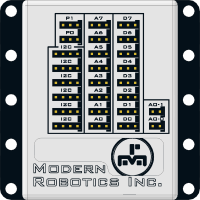
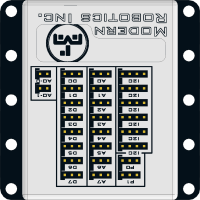
Updated version

diff --git a/src/hardware/HardwareDevice.java b/src/hardware/HardwareDevice.java
@@ -1,11 +1,11 @@
 package hardware;
 
+import main.PointConstants;
+
 import java.awt.*;
+import java.awt.geom.AffineTransform;
 import java.awt.image.BufferedImage;
 import java.util.ArrayList;
-
-import static main.XMLParser.devices;
-import static main.XMLParser.topY;
 
 /**
  * Created by Windows on 2016-10-23.
@@ -15,74 +15,110 @@ public abstract class HardwareDevice {
     int port = 0;
     protected int drawingX = 0;
     String name = "";
+    Point loc;
+    Point cablePoint;
     protected ArrayList<HardwareDevice> children;
+    public String serialNumber = "";
 
     public HardwareDevice(String name, int port){
         this.name = name;
         this.port = port;
+
+        loc = PointConstants.MODULE_LOC[port];
+        cablePoint = new Point(170, 0);
+
         children = new ArrayList<>();
     }
 
-    public int drawModule(Graphics g, int startX){
-        int x = startX;
-        Color c = g.getColor();
-
-        if(children.size() == 1){
-            g.drawRect(startX  + 50, topY + 500, 100, 100);
-            drawStringInBox(g, children.get(0).getName(), x + 50, topY + 500, 100, 100, 5);
-            x += 210;
-        } else {
-            for (HardwareDevice child : children) {
-                g.setColor(c);
-                g.drawRect(x, topY + 500, 100, 100);
-                drawStringInBox(g, child.getName(), x, topY + 500, 100, 100, 5);
-                x += 105;
-            }
-        }
-
-        g.setColor(c);
-        drawingX = (children.size() > 1)? (x - startX) / 2 - 100 + startX: startX;
-
-        if(image != null){
-            g.drawImage(image, drawingX, topY + 250, 200, 200, null);
-        } else {
-            g.drawRect(drawingX, 200, topY + 250, 200);
-
-        }
-
-        drawWires(g);
-        return x + 5;
+    public String getSerialNumber() {
+        return serialNumber;
     }
 
-    protected void drawWires(Graphics g){
+    public void setSerialNumber(String serialNumber) {
+        this.serialNumber = serialNumber;
+    }
 
-        if(drawingX + 160 < 500 && drawingX + 160 > 250){
-            System.out.println(name);
-            g.fillRect(drawingX + 160, topY + 240, 5, 10);
-            if(drawingX < 375){
-                g.fillRect(230 - port * 5, topY + 240, drawingX - 70 + port * 5, 5);
-                g.fillRect(230 - port * 5, port * 10, 5, topY + 240 - port * 10);
-                g.fillRect(230 - port * 5, port * 10, 65 + 28 * port + port * 5 , 5);
-            } else {
-                g.fillRect(230 - port * 5, topY + 240, drawingX - 70 + port * 5, 5);
-                g.fillRect(230 - port * 5, port * 10, 5, topY + 240 - port * 10);
-                g.fillRect(230 - port * 5, port * 10, 65 + 28 * port + port * 5 , 5);
-            }
+    public void drawModule(Graphics2D g){
+        Color c = g.getColor();
+
+        Point pt = PointConstants.MODULE_LOC[port];
+
+        AffineTransform at = new AffineTransform();
+
+        at.translate(pt.x, pt.y);
+
+        if (isOnLeft()) {
+            at.rotate(Math.PI / 2, image.getWidth() / 2, image.getHeight() / 2);
+            cablePoint = new Point(190, PointConstants.CABLE_LOC.x);
         } else {
-            g.fillRect(drawingX + 160, port * 10, 5, topY + 250 - port * 10);
+            at.rotate(-Math.PI / 2, image.getWidth() / 2, image.getHeight() / 2);
+            cablePoint = new Point(10, 200 - PointConstants.CABLE_LOC.x);
+        }//else
 
-            int width = Math.abs(295 + 28 * port - drawingX - 160);
-            if(295 + 28 * port > drawingX + 160){
-                g.fillRect(drawingX + 160, port * 10, width, 5);
-            } else {
-                g.fillRect(295 + 28 * port, port * 10, width, 5);
-            }
-        }
+        if (image != null) {
+            g.drawImage(image, at, null);
+        } else {
+            g.drawRect(pt.x, pt.y, 200, 200);
+        }//else
+
+        drawWires(g);
+
+        g.setStroke(new BasicStroke(2));
+        g.setFont(g.getFont().deriveFont(Font.BOLD, 16));
+        int childrenY = loc.y + 30;
+        if (isOnLeft()) {
+
+            g.drawString(serialNumber, loc.x - 130, loc.y + 30);
+
+            for (HardwareDevice child : children) {
+                g.drawString(child.getName(), loc.x - 130, childrenY += 50);
+            }//for
+
+
+            g.drawRect(loc.x - 140, loc.y, 100, childrenY - loc.y + 10);
+        } else {
+
+            g.drawString(serialNumber, loc.x + 350, loc.y + 30);
+
+            for (HardwareDevice child : children) {
+                g.drawString(child.getName(), loc.x + 350, childrenY += 50);
+            }//for
+
+            g.drawRect(loc.x + 340, loc.y, 100, childrenY - loc.y + 10);
+        }//else
+    }
+
+    public boolean isOnLeft() {
+        return port > 2;
+    }
+
+    protected void drawWires(Graphics2D g){
+
+        Point portLoc = PointConstants.PORTS[port];
+        Point powerModule = PointConstants.powerModule;
+        Point lWire = PointConstants.leftWireSplit;
+        Point rWire = PointConstants.rightWireSplit;
+
+        int PADDING = 20;
+
+        g.setStroke(new BasicStroke(5));
+
+        int level = (isOnLeft())? (5 - (port - 2)) : (port + 1);
+
+        g.drawLine(portLoc.x + powerModule.x, portLoc.y + powerModule.y, portLoc.x + powerModule.x, powerModule.y + portLoc.y - 40 * level);
+
+        if (isOnLeft()) {
+            g.drawLine(portLoc.x + powerModule.x, powerModule.y + portLoc.y - 40 * level, lWire.x + (5 - level * PADDING), powerModule.y + portLoc.y - 40 * level);
+            g.drawLine(lWire.x + (5 - level * PADDING), powerModule.y + portLoc.y - 40 * level, lWire.x + (5 - level * PADDING), loc.y + cablePoint.y);
+            g.drawLine(lWire.x + (5 - level * PADDING), loc.y + cablePoint.y, loc.x + cablePoint.x, loc.y + cablePoint.y);
+        } else {
+            g.drawLine(portLoc.x + powerModule.x, powerModule.y + portLoc.y - 40 * level, rWire.x - (level * PADDING), powerModule.y + portLoc.y - 40 * level);
+            g.drawLine(rWire.x - (level * PADDING), powerModule.y + portLoc.y - 40 * level, rWire.x - (level * PADDING), loc.y + cablePoint.y);
+            g.drawLine(rWire.x - (level * PADDING), loc.y + cablePoint.y, loc.x + cablePoint.x, loc.y + cablePoint.y);
+        }//else
 
 
 
-
-        g.fillRect(295 + 28 * port, port * 10, 5, topY + 30 - port * 10);
     }
 
     public String getName(){

diff --git a/src/main/PointConstants.java b/src/main/PointConstants.java
@@ -1,0 +1,44 @@
+package main;
+
+
+import com.sun.glass.ui.Size;
+
+import java.awt.*;
+
+/**
+ * Created by Windows on 2016-10-27.
+ */
+public class PointConstants {
+
+    public final static Point powerModule = new Point(600, 500);
+
+    public final static Size MODULE_SIZE = new Size(200, 200);
+
+    public final static Point leftWireSplit = new Point(500, 380);
+    public final static Point rightWireSplit = new Point(900, 380);
+
+    public final static Point CABLE_LOC = new Point(150, 10);
+    public final static Point CDIM_CABLE_LOC = new Point(50, 10);
+
+    public final static Point CHILDREN_LIST_LOC = new Point(0, 50);
+
+    public final static Point[] MODULE_LOC = {new Point(1000, 600),
+            new Point(1000, 300),
+            new Point(1000, 0),
+            new Point(200, 0),
+            new Point(200, 300),
+            new Point(200, 600),
+            new Point(200, 900)};
+
+    public final static Point[] PORTS = {
+            new Point(211, 30),
+            new Point(183, 30),
+            new Point(155, 30),
+            new Point(127, 30),
+            new Point(99, 30),
+            new Point(71, 30),
+            new Point(43, 30)};
+
+
+    
+}

diff --git a/src/hardware/ServoController.java b/src/hardware/ServoController.java
@@ -14,31 +14,15 @@ import static main.XMLParser.topY;
  * Created by Windows on 2016-10-23.
  */
 public class ServoController extends HardwareDevice {
-    public String getSerialNumber() {
-        return serialNumber;
-    }
-
-    public void setSerialNumber(String serialNumber) {
-        this.serialNumber = serialNumber;
-    }
-
-    public String serialNumber = "";
 
     public ServoController (String name, int port){
         super(name, port);
         image = XMLParser.readImage("/hardwareImages/servoController.png");
     }
 
-    @Override
-    public int drawModule(Graphics g, int startX) {
-        g.setColor(Color.BLACK);
+    public void drawModule(Graphics2D g) {
         g.setColor(Color.RED);
-        startX = super.drawModule(g, startX);
-
-        g.drawString(getSerialNumber(), drawingX + 35, topY + 275);
-        g.setColor(Color.BLACK);
-        drawStringInBox(g, name, drawingX + 20, topY + 320, 160, 40, 5);
-        return startX;
+        super.drawModule(g);
     }
 
     @Override

diff --git a/src/hardware/MotorController.java b/src/hardware/MotorController.java
@@ -1,5 +1,6 @@
 package hardware;
 
+import main.PointConstants;
 import main.XMLParser;
 
 import javax.imageio.ImageIO;
@@ -19,24 +20,10 @@ public class MotorController extends HardwareDevice {
         image = XMLParser.readImage("/hardwareImages/motorController.png");
     }
 
-    public String getSerialNumber() {
-        return serialNumber;
-    }
-
-    public void setSerialNumber(String serialNumber) {
-        this.serialNumber = serialNumber;
-    }
-
-    public String serialNumber = "";
-
-    @Override
-    public int drawModule(Graphics g, int startX) {
+    public void drawModule(Graphics2D g) {
         g.setColor(Color.BLUE);
-        startX = super.drawModule(g, startX);
-        g.drawString(getSerialNumber(), drawingX + 35, topY + 275);
-        g.setColor(Color.BLACK);
-        drawStringInBox(g, name, drawingX + 20, topY + 320, 160, 40, 5);
-        return startX;
+        super.drawModule(g);
+
     }
 
     public String getName(){

diff --git a/src/main/XMLParser.java b/src/main/XMLParser.java
@@ -131,14 +131,16 @@ import org.w3c.dom.Element;
             BufferedImage powerModule = readImage("/hardwareImages/powerModule.png");
             g.setColor(Color.BLACK);
 
-            g.drawRoundRect(5, 5, 200, 100, 5, 5);
+//            g.drawRoundRect(5, 5, 200, 100, 5, 5);
 
-            g.drawImage(powerModule, 250, 5 + topY, 250, 200, null);
+            Point loc = PointConstants.powerModule;
 
-            g.drawRect(595, 5, 110, 190);
+            g.drawImage(powerModule, loc.x, loc.y, 250, 200, null);
+
+//            g.drawRect(595, 5, 110, 190);
             int x = 0;
             for (HardwareDevice h : devices) {
-                x = h.drawModule(g, x);
+                h.drawModule(g);
                 System.out.println(x);
             }
             return bm;

diff --git a/src/hardware/SensorModule.java b/src/hardware/SensorModule.java
@@ -18,23 +18,9 @@ public class SensorModule extends HardwareDevice {
 
     }
 
-    public String getSerialNumber() {
-        return serialNumber;
-    }
-
-    public void setSerialNumber(String serialNumber) {
-        this.serialNumber = serialNumber;
-    }
-
-    public String serialNumber = "";
-
-    @Override
-    public int drawModule(Graphics g, int startX) {
+    public void drawModule(Graphics2D g) {
         g.setColor(Color.ORANGE);
-        startX = super.drawModule(g, startX);
+        super.drawModule(g);
 
-        g.drawString(getSerialNumber(), drawingX + 40, 485);
-
-        return startX;
     }
 }

diff --git a/src/hardware/Sensor.java b/src/hardware/Sensor.java
@@ -21,7 +21,6 @@ public class Sensor extends HardwareDevice {
     }
 
 
-    @Override
     public int drawModule(Graphics g, int startX) {
         return 0;
     }

diff --git a/src/hardware/Motor.java b/src/hardware/Motor.java
@@ -18,7 +18,6 @@ public class Motor extends HardwareDevice{
 
     }
 
-    @Override
     public int drawModule(Graphics g, int startX) {
         return 0;
     }

diff --git a/src/hardware/Servo.java b/src/hardware/Servo.java
@@ -19,7 +19,6 @@ public class Servo extends HardwareDevice{
 
     }
 
-    @Override
     public int drawModule(Graphics g, int startX) {
         return 0;
     }
